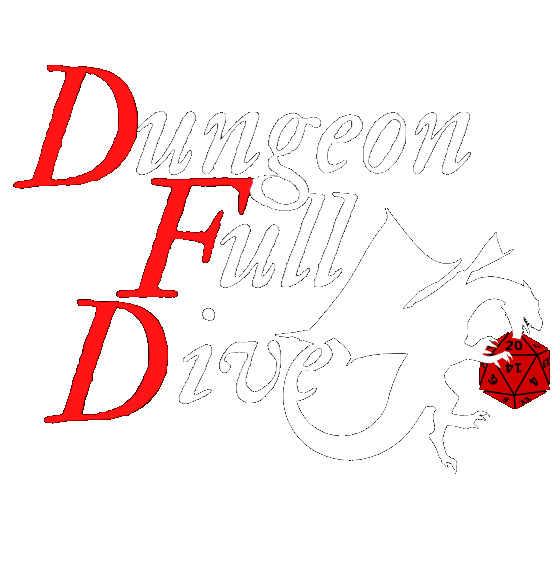
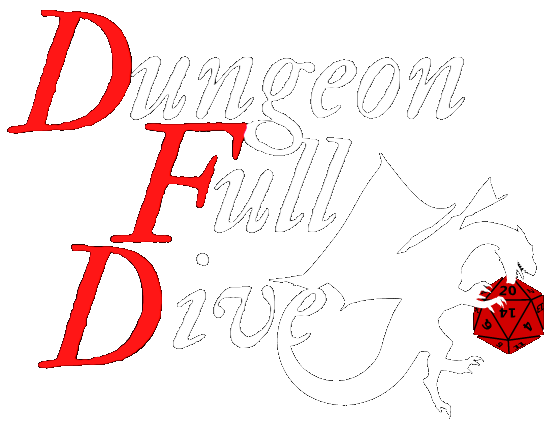
Adjust starting page; add teaser

diff --git a/app/frontend/index.html b/app/frontend/index.html
@@ -3,7 +3,7 @@
   <head>
     <meta charset="utf-8">
     <meta http-equiv="X-UA-Compatible" content="IE=edge">
-    <meta name="viewport" content="width=device-width, initial-scale=1">
+    <meta name="viewport" content="width=device-width, initial-scale=1, maximum-scale=1, user-scalable=0"">
     <meta name="description" content="Dungeon Full Dive: Make your DnD worlds real! DFD allows you and your friends to dive INTO your DnD Worlds by using your PCs or even VR-Headsets.">
     <title>Dungeon Full Dive</title>
     <link rel=preload href="css/varela_round.css" as="style">
@@ -48,7 +48,7 @@
         font-family: 'Varela Round', sans-serif; font-style: normal; font-weight: 400; font-size: 16px;
         box-sizing: border-box;
       }
-      #top { background-color: #35383D; }
+      #top { background-color: #35383D; overflow-x: hidden;}
       * { box-sizing: border-box; }
       /* Animations */
       .animated { -webkit-animation-duration: 1s; animation-duration: 1s; -webkit-animation-fill-mode: both; animation-fill-mode: both; }
@@ -62,14 +62,10 @@
       .delay-02s { animation-delay: 2s; -webkit-animation-delay: 2s; }
       /* Main Content */
       .hero { 
-        background: url('../img/hero-bg.webp') no-repeat center center; -webkit-background-size: cover; -moz-background-size: cover; -o-background-size: cover; background-size: cover;
-        height: 100%; width: 100%; position: absolute;
+        height: 100%; width: 100%;;
         display: flex;
         bottom: 4em;
       }
-      .hero-main { align-items: flex-end; }
-      .hero-webp { background: url('../img/hero-bg.webp') no-repeat center center; -webkit-background-size: cover; -moz-background-size: cover; -o-background-size: cover; background-size: cover; }
-      .hero-nowebp { background: url('../img/hero-bg.jpg') no-repeat center center; -webkit-background-size: cover; -moz-background-size: cover; -o-background-size: cover; background-size: cover; }
       .hero h1 { font-weight: 500; font-size: 60px; letter-spacing: 12px; margin: 10px; line-height: 1.1; margin: .67em 0; }
       .hero h2 { font-weight: 200; font-size: 20px; letter-spacing: 12px; margin: 10px; line-height: 1.1; margin: .67em 0; }
       .hero p { letter-spacing: 1px; font-size: 30px;}
@@ -93,15 +89,17 @@
         padding-right: 15px;
       }
       .container {  
-        width: 100%;
-        margin-right: auto; margin-left: auto;
-          padding-left: 15px; padding-right: 15px;
+        width: fit-content;
+        padding-left: 15px; padding-right: 15px;
+      }
+      .title-box {  
+        margin: 50px;
       }
       .container:before, .container:after { content: " "; display: table; }
       /* Social Buttons */
-      ul, ol { margin: 1em 0; text-align: center; }
+      ul, ol { margin: 1em 0; }
       .social-buttons, .socials, .article-showcase { margin-block-start: 0em; margin-block-end: 0em; margin-inline-start: 0px; margin-inline-end: 0px; padding-inline-start: 0px; }
-      ul.social-buttons li, ul.socials li, ul.article-showcase li { display: inline-block; margin-right: 200px; }
+      ul.social-buttons li, ul.socials li, ul.article-showcase li { display: inline-block; margin-left: 25px; margin-right: 25px; }
       .social-btn {
         width: 20px; height: 20px; 
         border-radius: 50%; -moz-border-radius: 50%; -webkit-border-radius: 10%; -o-border-radius: 50%; 
@@ -114,18 +112,6 @@
       }
       .social-btn:hover, .social-btn:focus { color: #888; }
 
-      /* Content*/
-      .content {  background-color: #FFF; top: 4em; margin-bottom: 4em; margin-left: 25%; padding: 20px; bottom: 0px; height: auto; }
-      .content h1 { font-weight: 300; font-size: 40px; letter-spacing: 3px; margin: 10px; line-height: 1.1; margin: .67em 0; }
-      .content p { margin-bottom: 14px;  }
-      .article {  position: relative; background-color: #FFF; margin-bottom: 4em; padding: 20px; bottom: 0px; }
-
-      .article-showcase { margin-top: 20px;}
-      .article-showcase li { width: 20em; height: 9em; background-color: #333; border-radius: 5px;}
-      .article-showcase-item { width: 18em; height: 7em;  margin: .67em 0; border-radius: 50%; -moz-border-radius: 50%; -webkit-border-radius: 10%; -o-border-radius: 50%;  margin: 12px}
-      .article-title { font-weight: 200; font-size: 19px; letter-spacing: 2px; }
-      .article-description { line-height: 1.2em; font-size: 16px; text-align: left; color: #FFF; padding-top: 10px; font-weight: 100; letter-spacing: 1px}
-
       /* Footer */
       p { margin-block-start: 0em; margin-block-end: 0em; }
       a { color: #a1a9b0; text-decoration: none;}
@@ -135,20 +121,48 @@
       .link { display: inline-block }
       ul.links li { display: inline-block; margin-right: 10px; }
       .socials { text-align: right; line-height: 25px; margin-top: 1em; margin-bottom: 1em; }
-      .credit { text-align: right; margin-top: 1em; margin-bottom: 1em; line-height: 25px; color: #a1a9b0; }
+      .credit { width: max-content; text-align: right; margin-top: 1em; margin-bottom: 1em; line-height: 25px; color: #a1a9b0; }
+
+      .background-container {
+        display: inline-block;
+        overflow-y: hidden;
+        width: 100%;
+      }
+      .background-img {
+          pointer-events: none;
+          position: relative;
+          min-width: 100%;
+          z-index: -1;
+      }
     </style>
 
   </head>
   <body id="top">
     <div id="home">
-      <section class="hero hero-main" id="hero">
-        <div class="container">
-            <ul class="text-center social-buttons" style="float: right">
-              <li><a href="https://www.kickstarter.com/projects/dfdstudios/dungeon-full-dive-make-your-dnd-worlds-real" alt="Kickstarter" class="social-btn social-btn-large animated fadeInUp delay-01s"><img src="img/kickstarter.png" width="300px" height="300px"></img></a></li>
-              <li><a href="https://www.reddit.com/r/DungeonFullDive/" alt="Reddit" class="social-btn social-btn-large animated fadeInUp delay-01s"><img src="img/reddit.png" width="300px" height="300px"></img></a></li>
-            </ul>
+      <div class="hero hero-main" id="hero">
+        <div class="start" style="display: flex; width: 100vw; height: 100vh">
+            <div class="background-container">
+              <picture>
+                <source class="background-img"srcset="img/hero-bg.webp" type="image/webp">
+                <img class="background-img" src="img/hero-bg.png" alt="Background">
+              </picture>
+            </div>
+            <div class="title-box container" style="position: absolute; transform: translate(0%, 10%);">
+              <div class="animated fadeInUp" style="background-color: #242830; border-radius: 20px; text-align: center; padding: 40px; margin-bottom: 20px;">
+                <img width="100%" src="img/DFD.png">
+              </div>
+              <div class="animated fadeInUp delay-01s" style="background-color: #242830; border-radius: 20px; text-align: center">
+                <ul class="social-buttons">
+                  <li><a href="https://www.kickstarter.com/projects/dfdstudios/dungeon-full-dive-make-your-dnd-worlds-real" alt="Kickstarter" class="social-btn social-btn-large"><img src="img/kickstarter.png" width="100px" height="100px"></img></a></li>
+                  <li><a href="https://www.reddit.com/r/DungeonFullDive/" alt="Reddit" class="social-btn social-btn-large"><img src="img/reddit.png" width="100px" height="100px"></img></a></li>
+                </ul>
+              </div>
+          </div>
         </div>
-      </section>
+      </div>
+    </div>
+    <div style="display: flex; background-color: #242830; margin-bottom: 4em;">
+      <iframe style="width: 100vw; height: 56vw;"src="https://www.youtube.com/embed/D0_-MevAT8w" title="YouTube video player" frameborder="0" allow="accelerometer; autoplay; clipboard-write; encrypted-media; gyroscope; picture-in-picture" allowfullscreen></iframe>
     </div>
     <footer>
       <div class="container footer">
